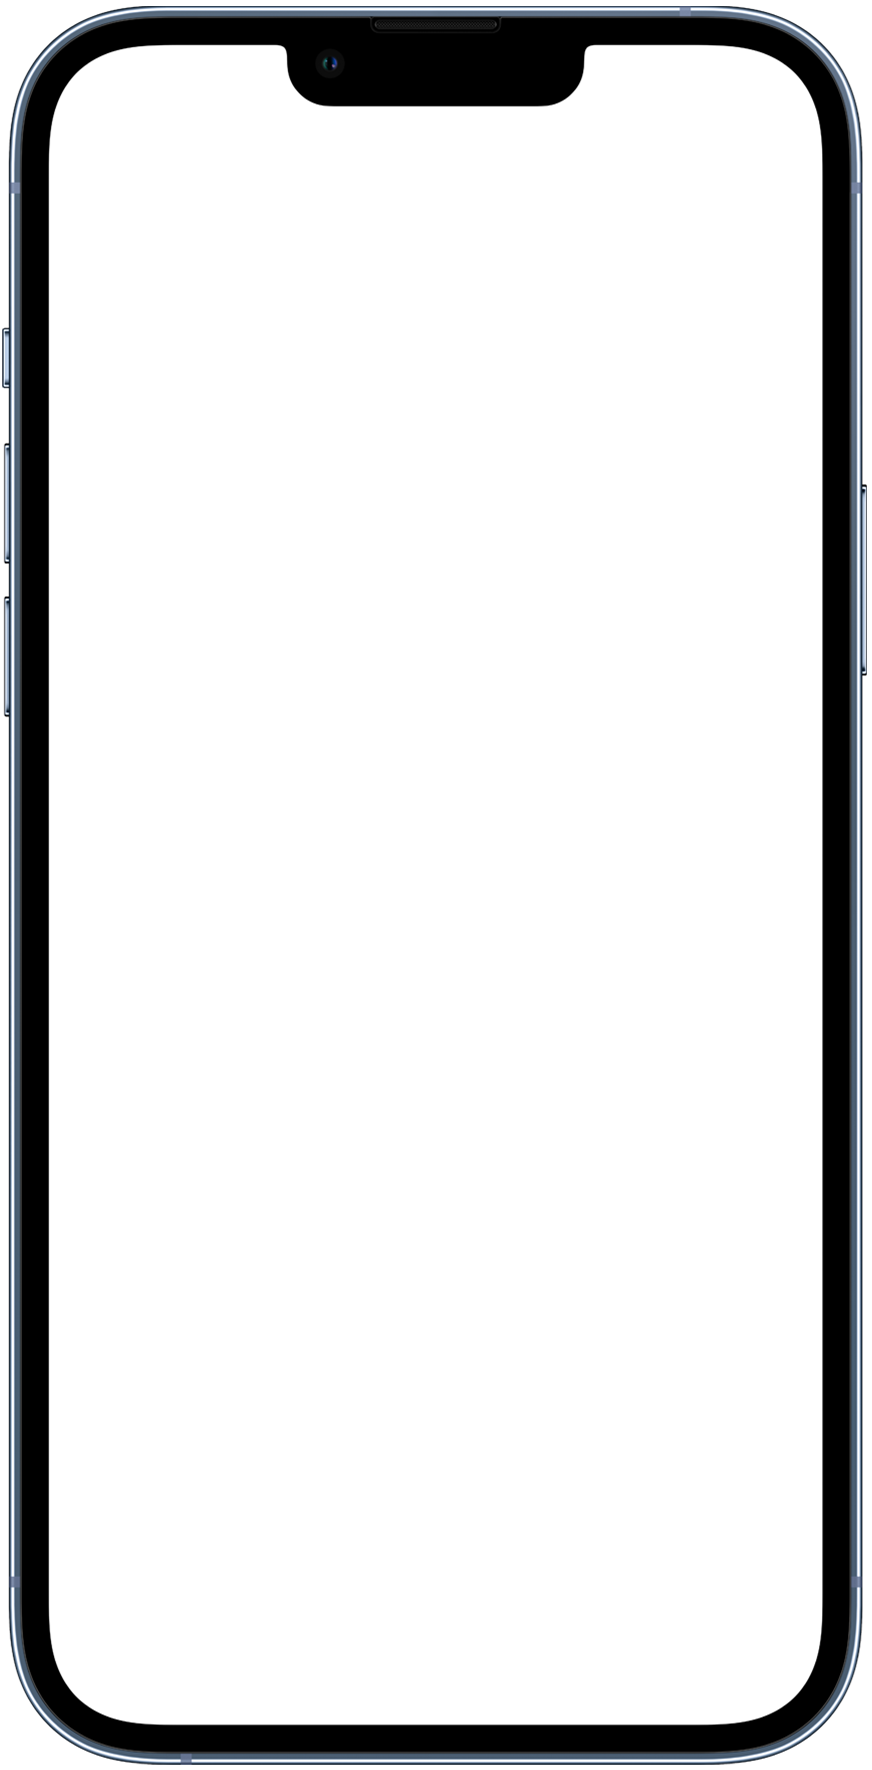
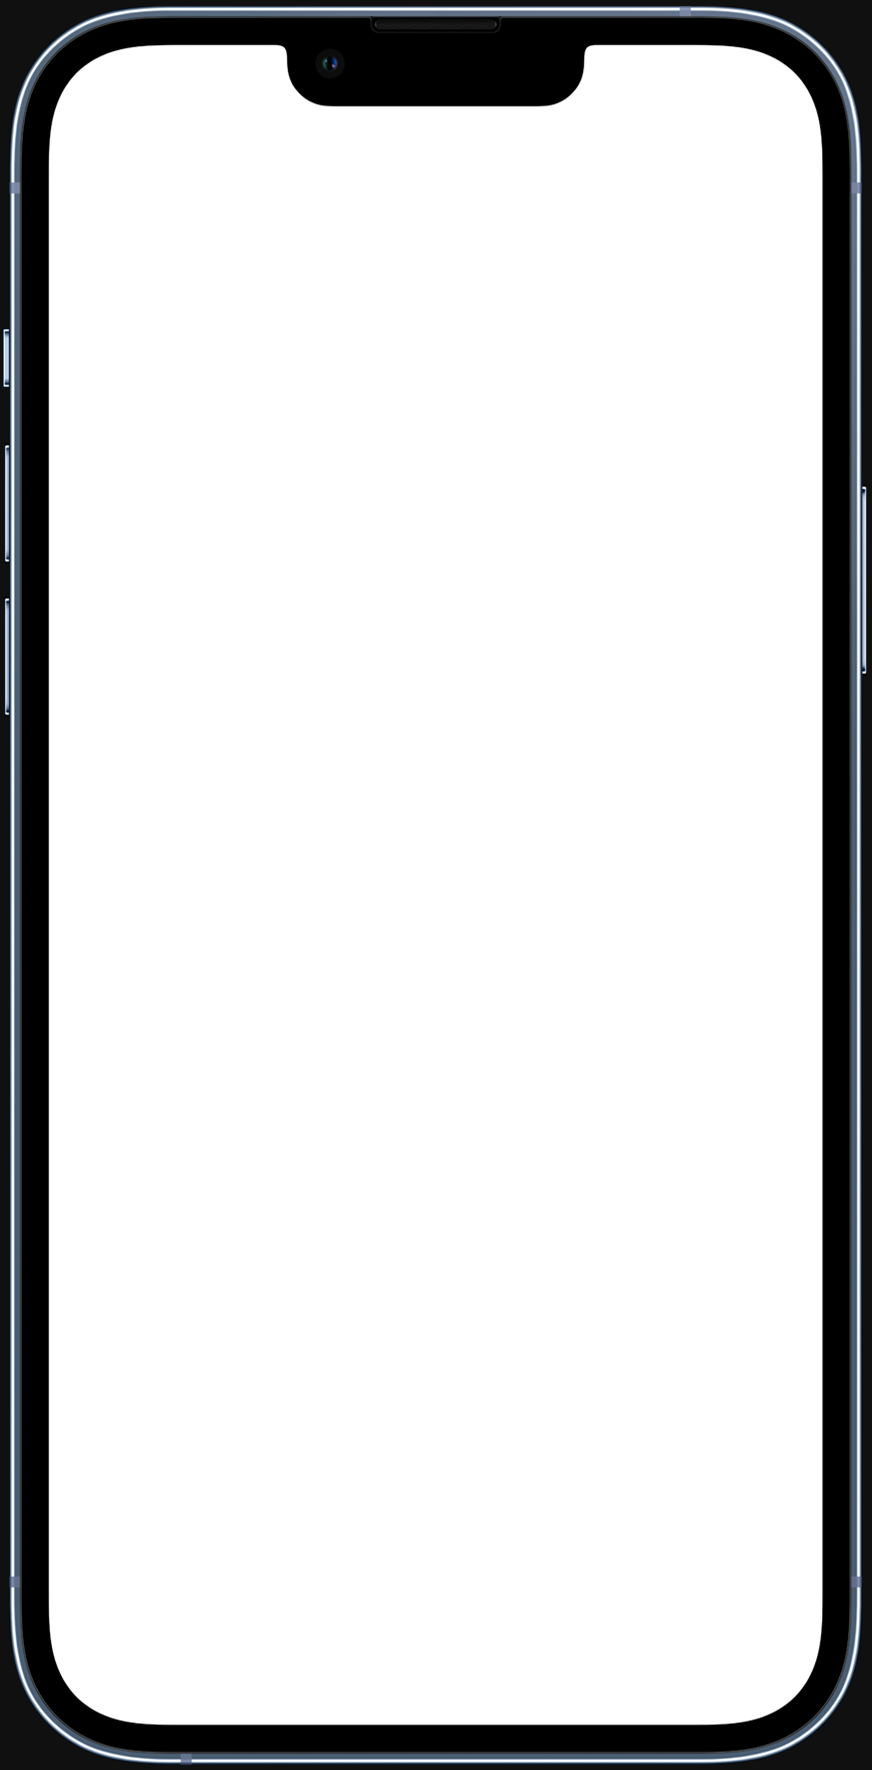
progress update

Changed region(s): [[0.0, 0.0, 1.0, 1.0]]

diff --git a/Src/html/bnkcapital/progress.html b/Src/html/bnkcapital/progress.html
@@ -360,16 +360,20 @@
 										<p>5분 이내에 02-3044-1004 번호로 전화할께요.</p>
 									</div>
 								</div>
-								<div class="bot-cont">
-									<div class="bot-profile"><span class="bot-photo"><i class="ic ic-bot"></i></span>BNK Capital 챗봇</div>
-									<div class="bot-box">
-										<p>잘 해결되셨네요. 아직 제출되어야 할 서류가 남아 있습니다.</p>
-										<ul class="ul-list fc-black mgt20">
-											<li>소득금액증명원 <strong class="required-error"><i class="ic ic-required-error"></i>제출필요</strong></li>
-										</ul>
-										<div class="btn-group-col">
-											<button type="button" class="btn btn-secondary popup-open" data-popup="pop8"><span>소득금액증명원</span></button>
-										</div>
+							</div>
+						</div>
+
+
+						<div id="progress7-1" class="progress-chat">
+							<div class="bot-cont">
+								<div class="bot-profile"><span class="bot-photo"><i class="ic ic-bot"></i></span>BNK Capital 챗봇</div>
+								<div class="bot-box">
+									<p>잘 해결되셨네요. 아직 제출되어야 할 서류가 남아 있습니다.</p>
+									<ul class="ul-list fc-black mgt20">
+										<li>소득금액증명원 <strong class="required-error"><i class="ic ic-required-error"></i>제출필요</strong></li>
+									</ul>
+									<div class="btn-group-col">
+										<button type="button" class="btn btn-secondary popup-open" data-popup="pop8"><span>소득금액증명원</span></button>
 									</div>
 								</div>
 							</div>
@@ -761,6 +765,18 @@
 			</div>
 			<!-- //full-popup -->
 
+			
+			<!-- .call-popup -->
+			<div class="popup progress-popup call" id="call-pop">
+				<div class="popup-inner">
+					<div class="div-cont fs0">
+						<img src="../../assets/img/pop-call.png">
+					</div>
+				</div>
+			</div>
+			<!-- //call-popup -->
+
+
 			<!-- .bottom-sheet //추가서류제출 - 서류 촬영 -->
 			<div class="popup bottom-sheet" id="pop8">
 				<div class="inner">
@@ -819,7 +835,7 @@
 			<!-- //full-popup -->
 			
 			<!-- .kakao-popup -->
-			<div class="popup kakao-popup" id="kakao-pop">
+			<div class="popup progress-popup kakao" id="kakao-pop">
 				<div class="popup-inner">
 					<div class="div-cont fs0 popup-close progress-open" data-progress="progress9">
 						<img src="../../assets/img/pop-kakao.png">
@@ -863,6 +879,9 @@
 <!-- //#wrapper_web -->
 
 <script>
+
+
+
 
 </script>
 

diff --git a/Src/assets/Js/ui.js b/Src/assets/Js/ui.js
@@ -92,7 +92,7 @@ document.addEventListener("DOMContentLoaded", () => {
 								if (stepBtn.disabled === true) {
 									stepBtn.disabled = false;
 								}
-								if (auth1Btn.disabled === false) {
+								if (auth1Btn !== null && auth1Btn.disabled === false) {
 									auth2Btn.disabled = false;
 								}
 							}
@@ -149,7 +149,7 @@ document.addEventListener("DOMContentLoaded", () => {
 				});
 			})
 		}
-	})
+	});
 
 	document.querySelectorAll('.progress-open').forEach(progressOpen => {
 		const progressId = progressOpen.dataset.progress;
@@ -164,7 +164,7 @@ document.addEventListener("DOMContentLoaded", () => {
 				//console.log(scrollPosition);
 			})
 		}
-	})
+	});
 
 	document.querySelectorAll('.next-show').forEach(nextShow => {
 		const nextId = nextShow.dataset.next;
@@ -187,8 +187,25 @@ document.addEventListener("DOMContentLoaded", () => {
 					document.querySelector("#scrollArea").scrollTo({top: scrollPosition2 - 120, behavior: 'smooth'});
 					
 				}
+
+				if (nextId === 'next7-1') {
+					const callPop = document.querySelector('#call-pop');
+					function openCall() {
+						callPop.classList.add('is-active');
+					}
+					function closeCall() {
+						callPop.classList.remove('is-active');
+						document.querySelector('#progress7-1').classList.add('is-show');
+						const scrollPosition3 = document.querySelector('#progress7-1').offsetTop;
+						document.querySelector("#scrollArea").scrollTo({top: scrollPosition3 - 120, behavior: 'smooth'});
+					}
+					setTimeout(openCall, 1000);
+					setTimeout(closeCall, 3000);
+				}
 			})
 		}
-	})
+	});
+
+
 
 });

diff --git a/Src/assets/css/scss/components/_layout.scss b/Src/assets/css/scss/components/_layout.scss
@@ -347,11 +347,9 @@ section {
 	left: 0;
 	right: 0;
 	bottom: 0;
-	display:flex;
+	display: flex;
 	align-items: center;
 	justify-content: center;
-	// background-color: rgba(#fff, .95);
-	border-radius: rem(10);
 	background-color: #F6F5F5;
 	transition: all .3s ease-in-out;
 	opacity: 0;
@@ -398,25 +396,22 @@ section {
 		}
 
 	}
-}
-
-// kakao-popup
-.kakao-popup {
-	position: fixed;
-	top: 0;
-	left: 0;
-	right: 0;
-	bottom: 0;
-	background-color: #9bbbd4;
-	border-radius: rem(10);
-	transition: all .3s ease-in-out;
-	opacity: 0;
-	z-index: -1;
-	&.is-active {
-		opacity: 1;
-		z-index: 9999;
+	&.kakao,
+	&.call {
+		display: block;
+		.popup-inner {
+			display: block;
+			width: 100%;
+		}
+	}
+	&.kakao {
+		background-color: #9bbbd4;
+	}
+	&.call {
+		background-color: #3b3b3b;
 	}
 }
+
 
 // bottom sheet
 .bottom-sheet {
@@ -427,7 +422,7 @@ section {
 	z-index: 1000;
 	border-radius: rem(30);
 	transform: translateY(120%);
-	transition: all .4s ease-in-out;;
+	transition: all .4s ease-in-out;
 	background-color: #fff;
 	opacity: .5;
 	&.is-active {
@@ -444,6 +439,12 @@ section {
 		opacity: 1;
 		&.is-active {
 			transform: translateX(0) translateY(0);
+		}
+	}
+	&.pos-middle {
+		transition: none;
+		&.is-active {
+			transform: translateY(-50%);
 		}
 	}
 	.inner {
@@ -612,10 +613,6 @@ section {
 			height: 68px;
 			z-index: 99999;
 		}
-	}
-	.progress-popup,
-	.kakao-popup {
-		border-radius: 0;
 	}
 	
 }

diff --git a/Src/html/bnkcapital/loan.html b/Src/html/bnkcapital/loan.html
@@ -32,8 +32,8 @@
 				<!-- #section -->
 				<section id="scrollArea">
 					
-					<div class="div-cont fs0">
-						<a href="detail.html"><img src="../../assets/img/loan-cont.png"></a>
+					<div class="div-cont fs0 popup-open" data-popup="continue-pop">
+						<img src="../../assets/img/loan-cont.png">
 					</div>
 					
 				</section>
@@ -52,6 +52,30 @@
 				</ul>
 			</div>
 			<!-- //#bottom -->
+
+			<!-- .bottom-sheet //청약 -->
+			<div class="popup bottom-sheet pos-middle" id="continue-pop">
+				<div class="inner">
+					<div class="pop-head">
+						<button class="btn btn-close-pop popup-close"><i class="ic ic-close-pop"></i><span class="sr-only">닫기</span></button>
+					</div>
+					<div class="pop-body">
+						<div class="div-cont fs0 center">
+							<i class="ic ic-hourglass"></i>
+						</div>
+						<div class="div-cont fs0 mgt40">
+							<img src="../../assets/img/pop-continue.png">
+						</div>
+						<div class="btn-group-row mgt40">
+							<a href="detail.html" class="btn btn-primary type2" style="width:52%"><span>아니오</span></a>
+							<a href="detail.html" class="btn btn-primary"><span>진행하기</span></a>
+						</div>
+					</div>
+				</div>
+			</div>
+			<i class="modal-dim"></i>
+			<!-- //bottom-sheet -->
+
 
 		</div>
 		<!-- //mobile source -->

diff --git a/Src/assets/css/scss/base/_common.scss b/Src/assets/css/scss/base/_common.scss
@@ -158,10 +158,10 @@ textarea {
 	margin-top: rem(30) !important;
 }
 .mgt40 {
-	margin-top: rem(30) !important;
+	margin-top: rem(40) !important;
 }
 .mgt50 {
-	margin-top: rem(30) !important;
+	margin-top: rem(50) !important;
 }
 
 // font

diff --git a/Src/assets/css/scss/components/_icon.scss b/Src/assets/css/scss/components/_icon.scss
@@ -24,6 +24,7 @@
 		'required-error': (rem(12), rem(12)),
 		'progress': (rem(136), rem(157)),
 		'shoot': (rem(80), rem(80)),
+		'hourglass': (rem(74), rem(88)),
 	);
 	@each $name, $size in $icon-png {
 		&-#{$name} {

diff --git a/Src/assets/css/scss/components/_layout_web.scss b/Src/assets/css/scss/components/_layout_web.scss
@@ -44,7 +44,7 @@
 	position: relative;
 	width: 100%;
 	height: 100%;
-	background-color: #010101;
+	background-color: #101010;
 }
 
 #container_web {
